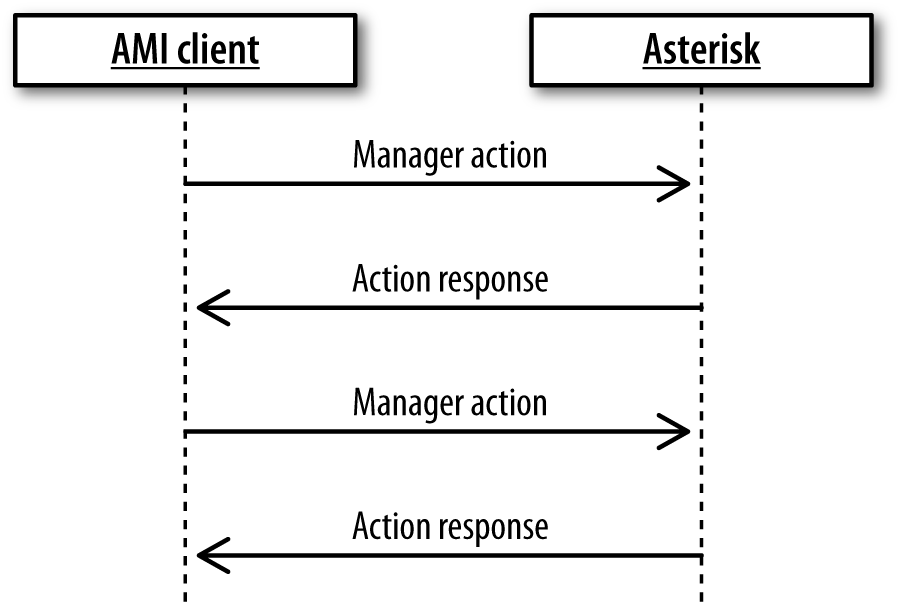
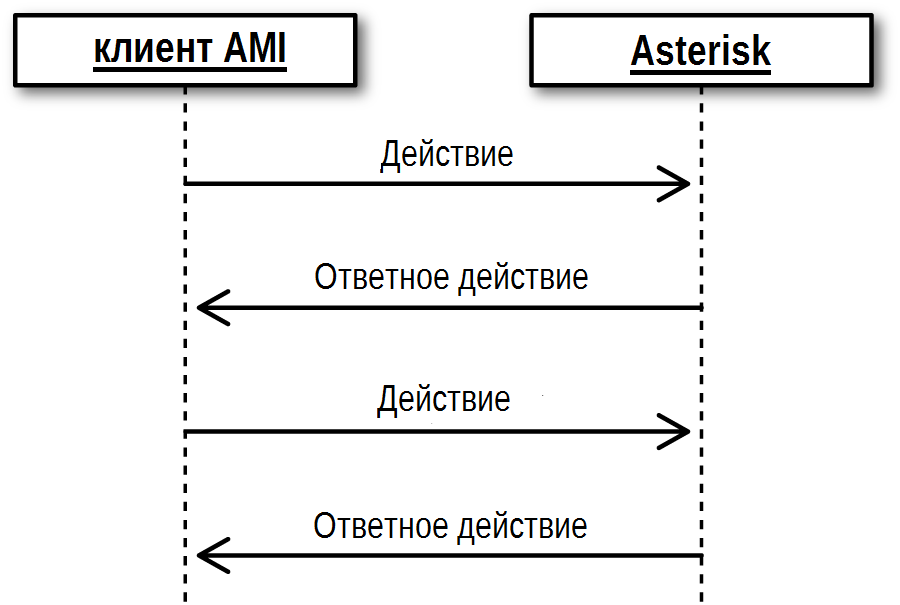
заменил рисунки (взял из 4 издания)

diff --git a/glava-17.md b/glava-17.md
@@ -63,7 +63,7 @@ sudo mv docall /var/spool/asterisk/outgoing/</code></pre></p>
 <table border="1" width="100%" cellpadding="5">
   <tr>
     <td>
-      <p align="left"><b>Предупреждение<b></p>
+      <p align="left"><b>Предупреждение</b></p>
       <p>Использование <code>mv</code> вместо <code>cp</code> здесь важно. Asterisk следит за тем, чтобы содержимое отображалось в каталоге <i>spool</i>. Если вы используете копирование - Asterisk может попытаться прочитать новый файл до того, как содержимое будет скопировано в него. Создание файла, а затем его перемещение позволяет избежать этой проблемы.</p>
     </td>
   </tr>
@@ -197,7 +197,7 @@ Connection closed by foreign host.
 <table border="1" width="100%" cellpadding="5">
   <tr>
     <td>
-      <p align="center"><b>Примечание</b></p>
+      <p align="left"><b>Примечание</b></p>
       <p>Учетные записи, используемые для подключения к AMI через HTTP, являются теми же учетными записями, настроенными в файле <i>/etc/asterisk/manager.conf</i>.</p>
     </td>
   </tr>
@@ -255,42 +255,47 @@ Message: Thanks for all the fish.
   <tr>
     <td>
       <p align="left"><b>Предупреждение</b></p>
-      <p>Обратите особое внимание на разрешения `system`, `command` и `originate`. Эти разрешения предоставляют значительные полномочия всем приложениям, которые имеют право их использовать. Предоставляйте эти разрешения только приложениям, над которыми у вас есть полный контроль (и в идеале они работают в одном окне).</p>
+      <p>Обратите особое внимание на разрешения <code>system</code>, <code>command</code> и <code>originate</code>. Эти разрешения предоставляют значительные полномочия всем приложениям, которые имеют право их использовать. Предоставляйте эти разрешения только приложениям, над которыми у вас есть полный контроль (и в идеале они работают в одном окне).</p>
     </td>
   </tr>
 </table>
 
 ### http.conf
 
-As we’ve seen, the Asterisk Manager Interface can be accessed over HTTP as well as TCP. To make that work, a very simple HTTP server is embedded in Asterisk. All of the options relevant to the AMI go in the \[general\] section of /etc/asterisk/http.conf.
+Как мы уже видели, интерфейс Asterisk Manager может быть доступен как по протоколу HTTP, так и по протоколу TCP. Для этого в Asterisk встроен очень простой HTTP-сервер. Все параметры, относящиеся к AMI, находятся в разделе [general] файла _/etc/asterisk/http.conf_.
 
-**Note**
+<table border="1" width="100%" cellpadding="5">
+  <tr>
+    <td>
+      <p align="center"><b>Примечание</b></p>
+      <p>Включение доступа к AMI по протоколу HTTP требует наличия <i>/etc/asterisk/manager.conf</i> и <i>/etc/asterisk/http.conf</i>. AMI должен быть включен в <i>manager.conf</i> с параметром <code>enabled</code>, установленным в <code>yes</code> и <code>webenabled</code> должен быть установлен в значение <code>yes</code> чтобы разрешить доступ по протоколу HTTP. Наконец, опция <code>enabled</code> в <i>http.conf</i> должна быть установлена в <code>yes</code> чтобы включить сам HTTP-сервер.</p>
+    </td>
+  </tr>
+</table>
 
-Enabling access to the AMI over HTTP requires both /etc/asterisk/manager.conf and /etc/asterisk/http.conf. The AMI must be enabled in manager.conf with the enabled option set to yes, and the manager.conf option webenabled must be set to yes to allow access over HTTP. Finally, the enabled option in http.conf must be set to yes to turn on the HTTP server itself.
+Доступные опции будут найдены в вашем файле _~/src/asterisk-15\<TAB\>/configs/samples/http.conf.sample_.
 
-The available options will be found in your ~/src/asterisk-15&lt;TAB&gt;/configs/samples/http.conf.sample file.
+## Обзор протокола
 
-## Protocol Overview
+В AMI есть два основных типа сообщений: события диспетчера и действия диспетчера.
 
-There are two main types of messages on the Asterisk Manager Interface: manager events and manager actions.
+_События диспетчера_ - это односторонние сообщения, посылаемые Asterisk клиентам AMI для сообщения о том, что произошло в системе (Рисунок 17-1).
 
-Manager events are one-way messages sent from Asterisk to AMI clients to report something that has occurred on the system \([Figure 17-1](17.%20Asterisk%20Manager%20Interface%20and%20Call%20Files%20-%20Asterisk%20%20The%20Definitive%20Guide,%205th%20Edition.htm%22%20/l%20%22AMI-fig-events)\).
+![Рисунок 17-1. События диспетчера](/pics/pic17-1.png)
 
-![](/pics/pic17-1.png)
+_Рисунок 17-1. События диспетчера_
 
-**Figure 17-1. Manager events**
+_Действия диспетчера_ - это запросы от клиента к Asterisk для выполнения некоторого действия и возврата результата (Рисунок 17-2). Например, действие AMI инициирует запросы, чтобы Asterisk создал новый вызов, и, естественно, клиентскому приложению потребуются ответы от Asterisk, чтобы указать ход выполнения этого действия.
 
-Manager actions are requests from a client to Asterisk to perform some action and return the result \([Figure 17-2](17.%20Asterisk%20Manager%20Interface%20and%20Call%20Files%20-%20Asterisk%20%20The%20Definitive%20Guide,%205th%20Edition.htm%22%20/l%20%22AMI-fig-actions)\). For example, the AMI action Originate requests that Asterisk create a new call, and naturally the client application will need responses from Asterisk to indicate the progress of that activity.
+![Рисунок 17-2. Действия диспетчера](/pics/pic17-2.png)
 
-![](/pics/pic17-2.png)
+_Рисунок 17-2. Действия диспетчера_
 
-**Figure 17-2. Manager actions**
+Другие действия менеджера - это запросы данных. Например, есть действие - получить список всех активных каналов в системе: сведения о каждом канале доставляются как событие. Когда список результатов будет завершен, будет отправлено окончательное сообщение о том, что цель достигнута. См. Рисунок 17-3 для графического представления клиента, отправляющего этот тип управляющего действия и получающего список ответов.
 
-Other manager actions are requests for data. For example, there is a manager action to get a list of all active channels on the system: the details about each channel are delivered as a manager event. When the list of results is complete, a final message will be sent to indicate that the end has been reached. See [Figure 17-3](17.%20Asterisk%20Manager%20Interface%20and%20Call%20Files%20-%20Asterisk%20%20The%20Definitive%20Guide,%205th%20Edition.htm%22%20/l%20%22AMI-fig-actions2) for a graphical representation of a client sending this type of manager action and receiving a list of responses.
+![Рисунок 17-3. Действия диспетчера возвращающие список данных](/pics/pic17-3.png)
 
-![](/pics/pic17-3.png)
-
-**Figure 17-3. Manager actions that return a list of data**
+_Рисунок 17-3. Действия диспетчера возвращающие список данных_
 
 ### Message Encoding
 
